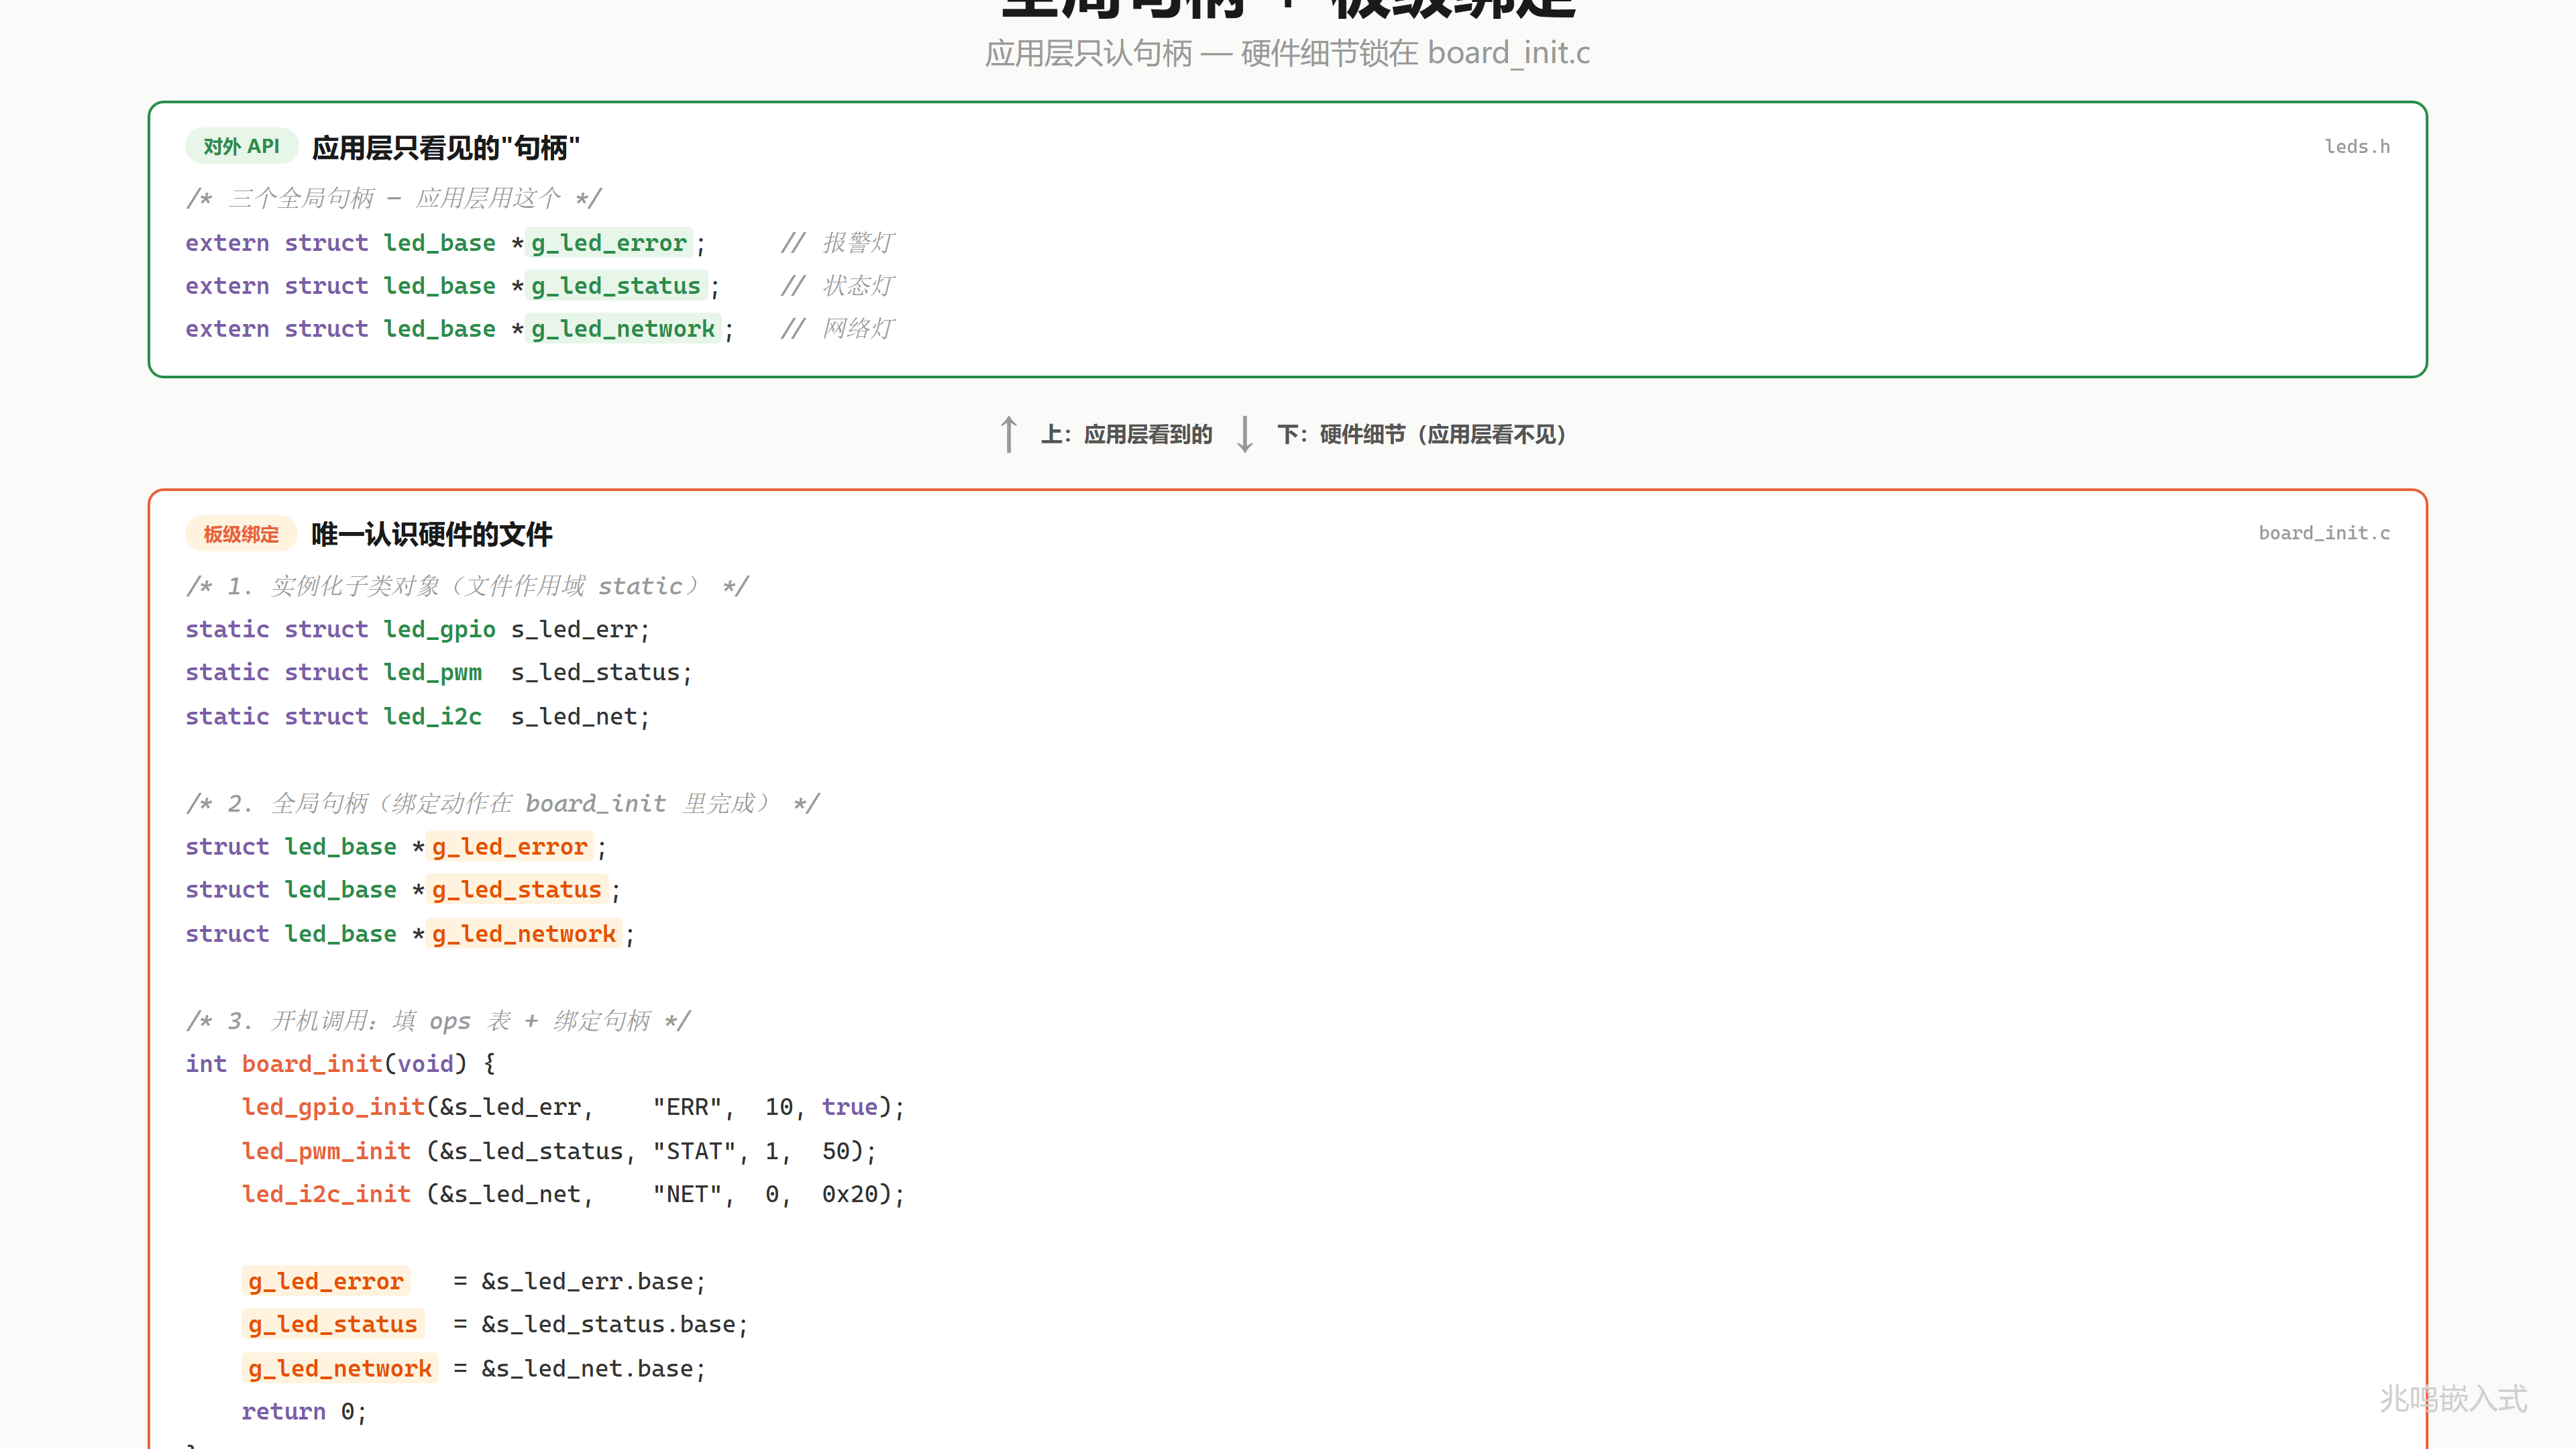
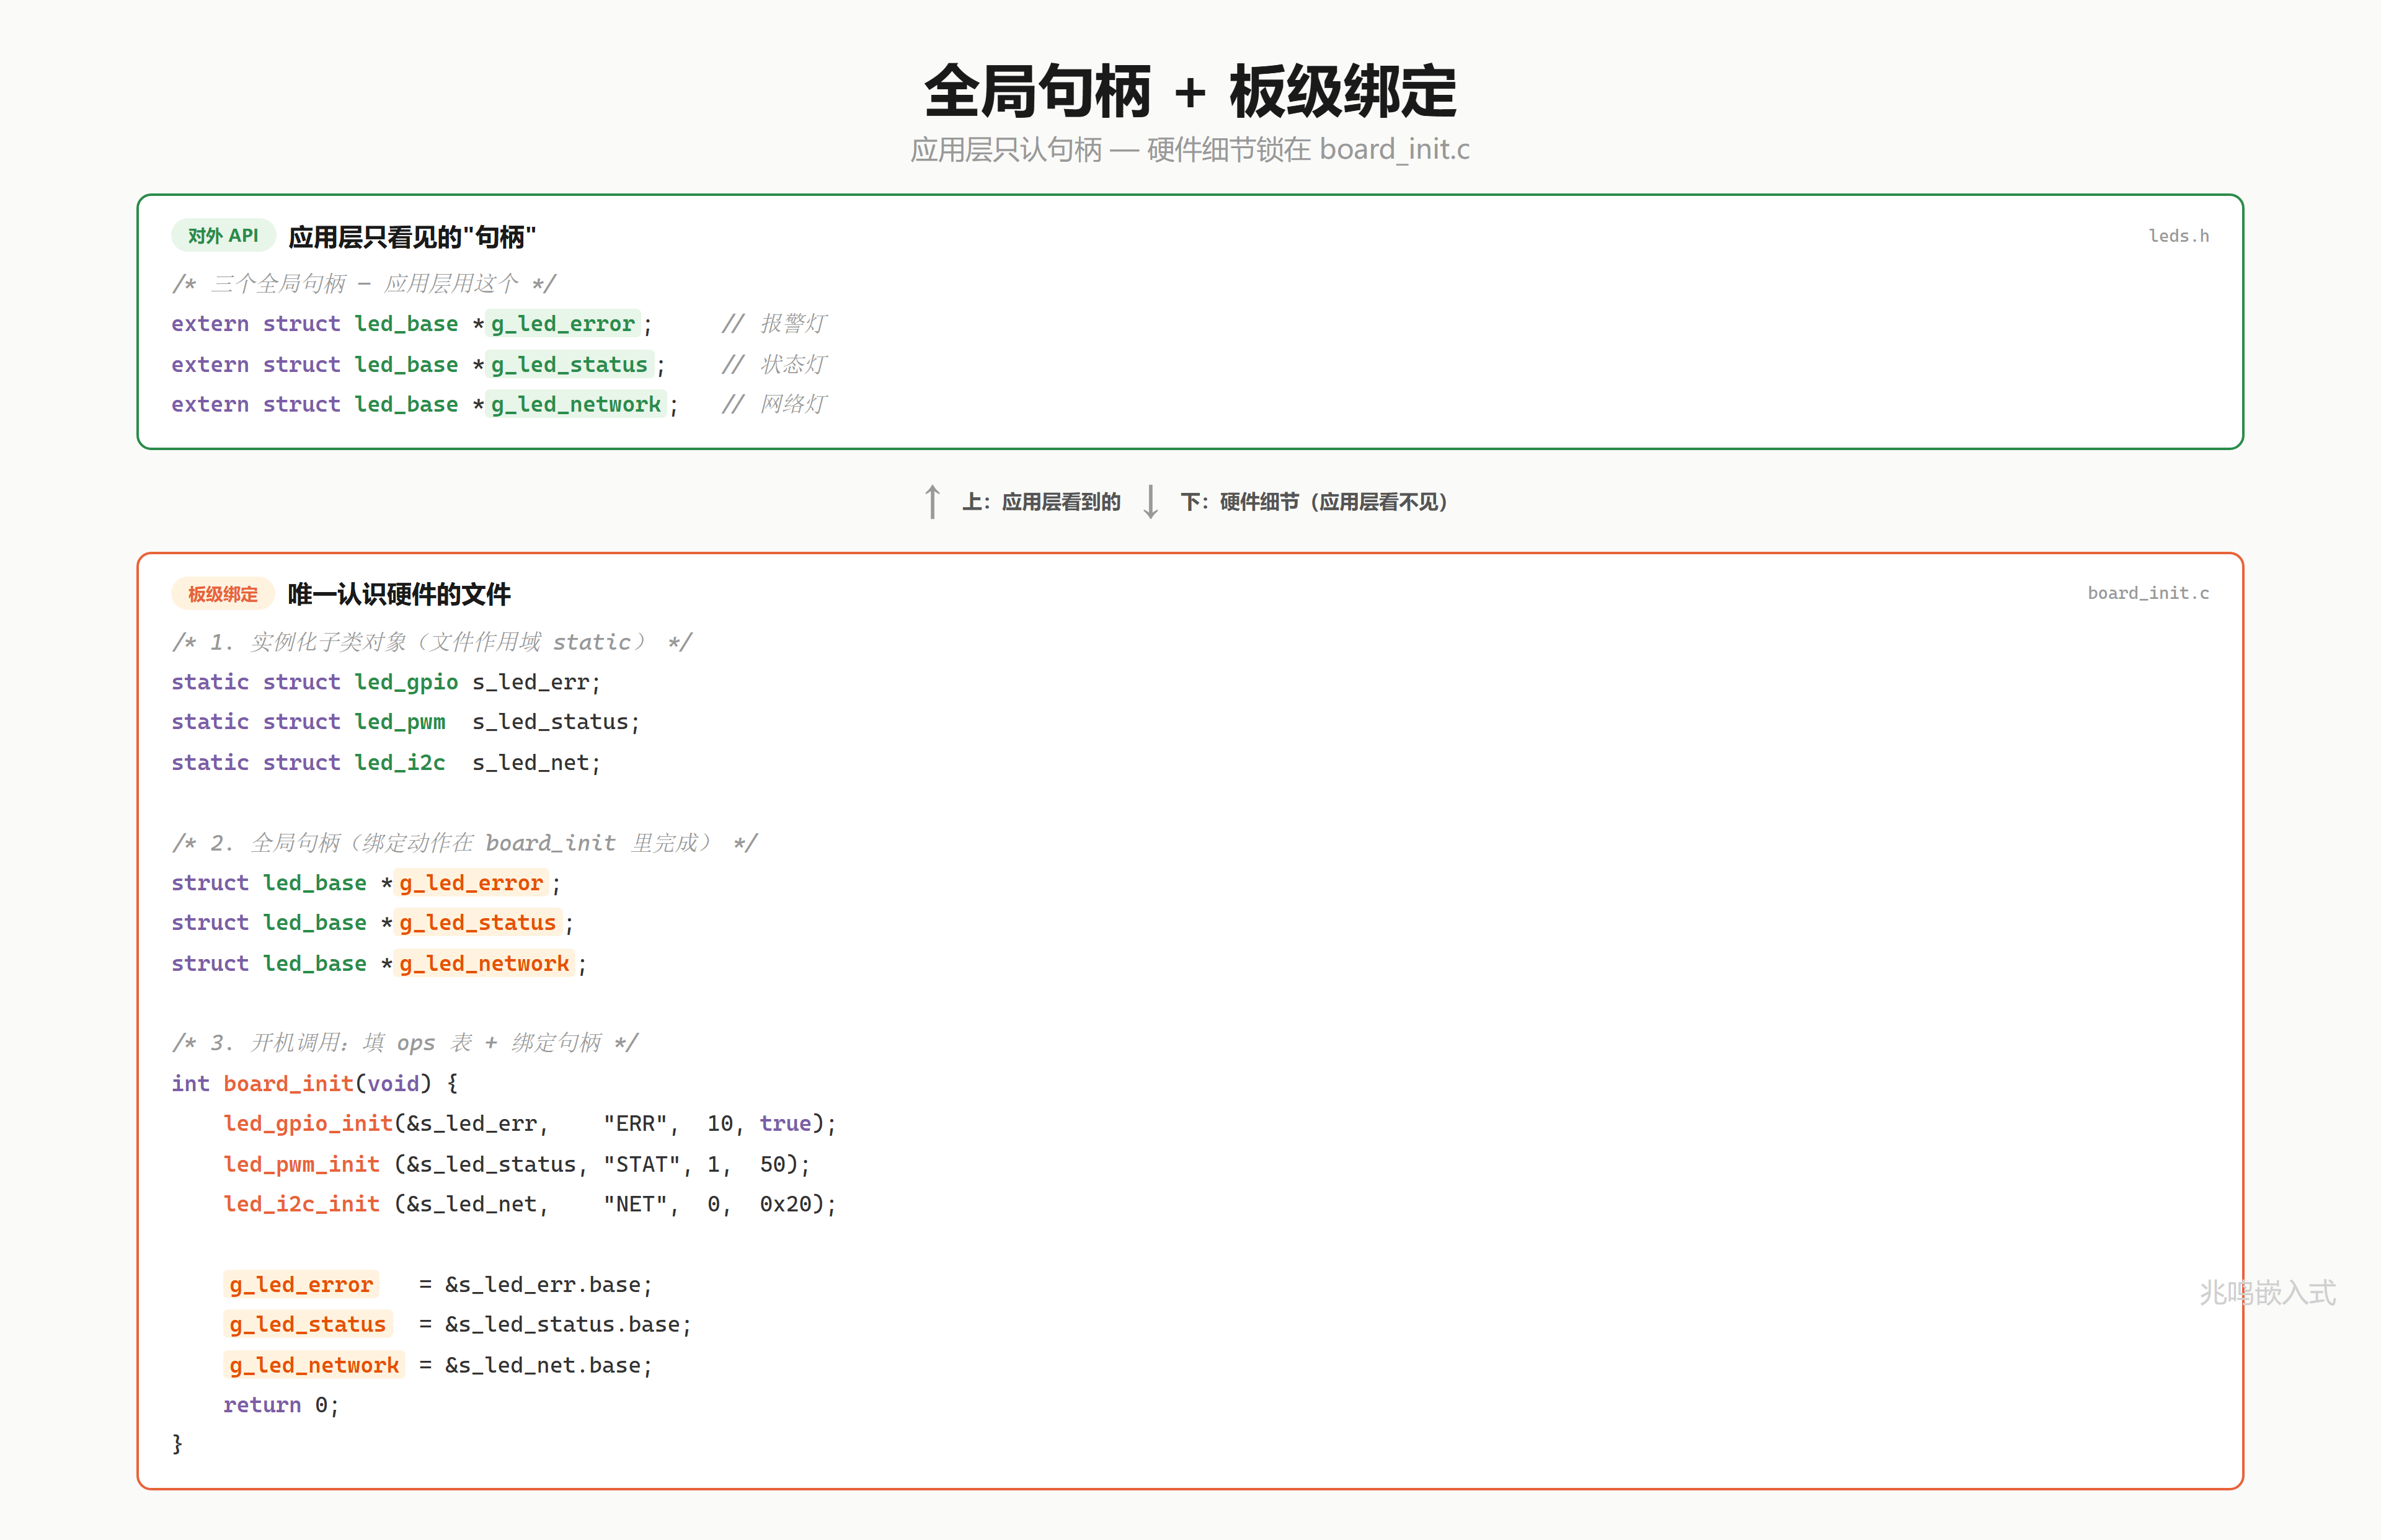
更新内容

diff --git a/book/03-多态/09-ops操作表.md b/book/03-多态/09-ops操作表.md
@@ -261,7 +261,7 @@ typedef struct {            /* 早期 C 风格, 大写驼峰 */
 
 ### 9.5.6 视频版与配套代码版的三处差异
 
-差异原则详见 preface「配套代码 vs 视频版」。下面是本章具体差异。
+差异原则详见前言「配套代码 vs 视频版」。下面是本章具体差异。
 
 视频 EP14 演示用的 ops 表设计是这样：
 

diff --git a/book/03-多态/10-ops放进对象.md b/book/03-多态/10-ops放进对象.md
@@ -306,7 +306,7 @@ static int gpio_on(struct led_base *me)
 
 ### 10.6.4 视频版与配套代码版字段差异说明
 
-差异原则详见 preface「配套代码 vs 视频版」。下面是本章具体差异。
+差异原则详见前言「配套代码 vs 视频版」。下面是本章具体差异。
 
 视频 EP15 里 ops 表字段是 `on / off / set_brightness`（视频画面里能看到 PWM 调亮度的演示）。本章配套代码 `oop-in-c/code/10-vptr/` 用的是 `on / off / toggle`，和第 9 章配套代码字段保持一致。
 

diff --git a/book/03-多态/11-多态完整图景.md b/book/03-多态/11-多态完整图景.md
@@ -284,7 +284,7 @@ struct led_gpio led_run;   led_gpio_init(&led_run, "RUN", 6);
 
 ### 11.7.4 配套代码 ops 字段说明
 
-差异原则详见 preface「配套代码 vs 视频版」。下面是本章具体差异。
+差异原则详见前言「配套代码 vs 视频版」。下面是本章具体差异。
 
 视频 EP16 演示主线用 `on / off` 两个字段，已经够说清 dispatch 这件事。本章配套代码 `oop-in-c/code/11-polymorphism/` 沿用第 9 章 / 第 10 章的 `on / off / toggle` 三字段。三章代码包跨章演化字段一致，读者跟着改增量看得清楚。
 

diff --git a/book/04-工程威力/12-向上转型.md b/book/04-工程威力/12-向上转型.md
@@ -308,7 +308,7 @@ struct gpio_led_data {
 
 ### 12.8.7 配套代码相对第 11 章的演化点
 
-差异原则详见 preface「配套代码 vs 视频版」。下面是本章具体差异。
+差异原则详见前言「配套代码 vs 视频版」。下面是本章具体差异。
 
 打开第 12 章配套代码 `oop-in-c/code/12-upcasting/`，跟第 11 章 `oop-in-c/code/11-polymorphism/` 对一下，会发现两处变化。这些变化在主线叙事里没特别说，这里集中说一下。本章 § 12.1 引的 `led_gpio_init(&gpio_led, "ERR", 10, true)` 和 § 12.2 画的 `struct led_gpio { base; pin; on_level; }`，都已经是下面这个 ch12 的形态。
 